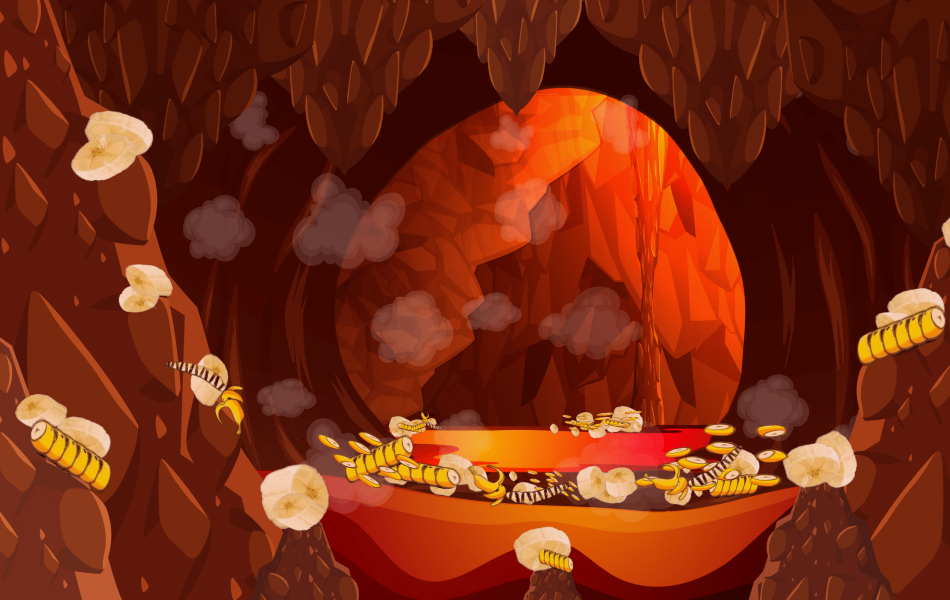
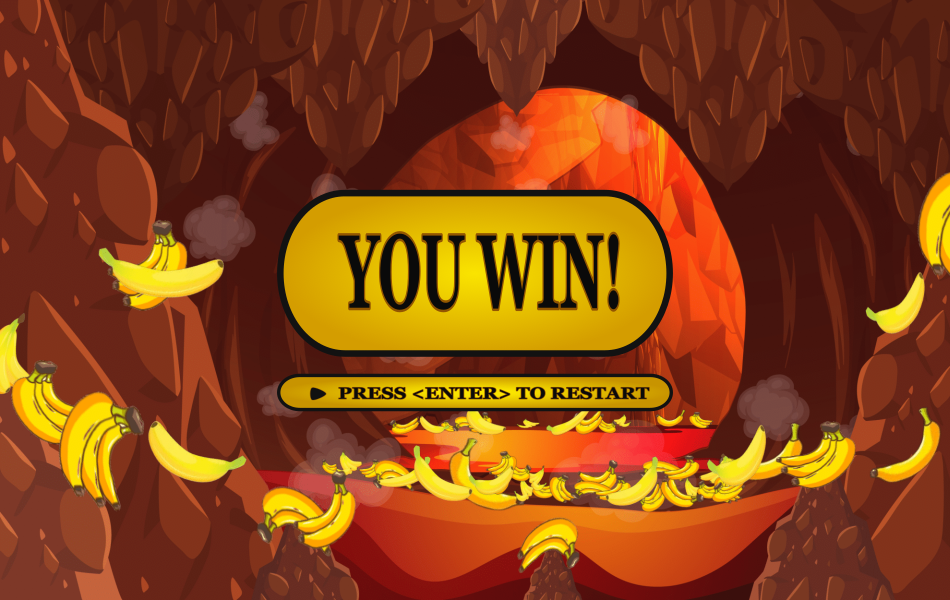
V1.2.1

diff --git a/WombatBall.java b/WombatBall.java
@@ -45,17 +45,17 @@ public class WombatBall extends Actor
         }
         Paddle p = (Paddle) getOneIntersectingObject(Paddle.class);
         ComputerPaddle cp = (ComputerPaddle) getOneIntersectingObject(ComputerPaddle.class);
-        if(p != null || cp!=null && directionUP){
+        if(p != null){
            Greenfoot.playSound("BounceWombat.wav");
            dy = dy * -1;
-           bounceCount++;
-           Board.points.add(1);
            directionUP=!directionUP;
         }
         if(cp != null && directionUP){
+           Greenfoot.playSound("BounceWombat.wav");
            dy = dy * -1;
            directionUP=!directionUP;
-          
+           Board.points.add(1);
+           bounceCount++;
            if(bounceCount == 1){
             Board.level.add(1);
             }
@@ -67,12 +67,14 @@ public class WombatBall extends Actor
             }
             if(bounceCount == 30){
                 Greenfoot.setWorld(new WinScene());
-                Greenfoot.playSound("WinSound.wav");
+                Greenfoot.playSound("WinSound.wav"); 
+                Board.points.add(-Board.points.getValue());
+                Board.level.add(-3);
+                bounceCount-=bounceCount;
+                }
             }
           
         }
-        
-    }
  
     private void gameStop(){
         if(this.getY() > 590){
@@ -83,6 +85,17 @@ public class WombatBall extends Actor
             if(Board.Life.getValue() == 0){
                 Greenfoot.setWorld(new GameOver());
                 Greenfoot.playSound("GameOverSound.wav");
+                Board.points.add(-Board.points.getValue());
+                bounceCount-=bounceCount;
+                if(Board.level.getValue() == 1){ 
+                    Board.level.add(-1);
+                }
+                else if (Board.level.getValue() == 2){
+                    Board.level.add(-2);
+                }
+                else if (Board.level.getValue() == 3){
+                    Board.level.add(-3);
+                }
             }
             else{
                 setLocation(300, 300);

diff --git a/GameOver.java b/GameOver.java
@@ -2,9 +2,17 @@ import greenfoot.*;
 public class GameOver extends World
 {
     Fire fr = new Fire();
+    WombatSpit ws = new WombatSpit();
     public GameOver()
     {    
         super(950, 600, 1); 
         addObject(fr, 455, 580);
+        addObject(ws, 475, 430);
+    }
+    public void act()
+    {
+        if(Greenfoot.isKeyDown("enter")){
+        Greenfoot.setWorld(new Intro());
+        }
     }
 }

diff --git a/WinScene.java b/WinScene.java
@@ -17,4 +17,10 @@ public class WinScene extends World
             addObject(new BananaSlice2(), Greenfoot.getRandomNumber(950), 0);
         }
     }
+     public void act()
+    {
+        if(Greenfoot.isKeyDown("enter")){
+        Greenfoot.setWorld(new Intro());
+        }
+    }
 }

diff --git a/WombatSpit.java b/WombatSpit.java
@@ -1,0 +1,10 @@
+import greenfoot.*;  
+public class WombatSpit extends Actor
+{
+    GifImage wombatSpit = new GifImage("wombatSpit.gif");
+    public void act()
+    {
+        setImage( wombatSpit.getCurrentImage());
+        getImage().scale(getX()*3,getY()*3);
+    }
+}
